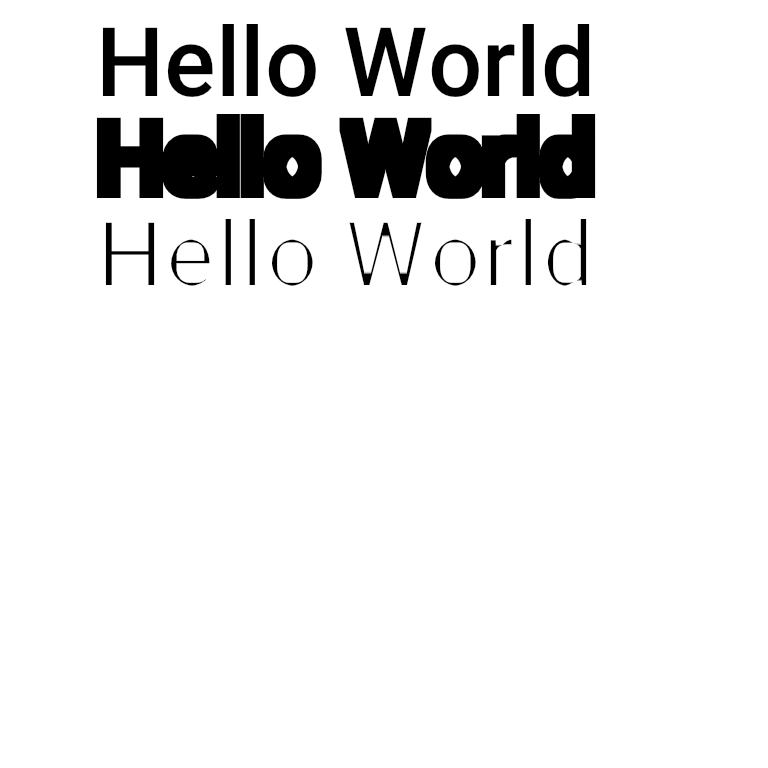
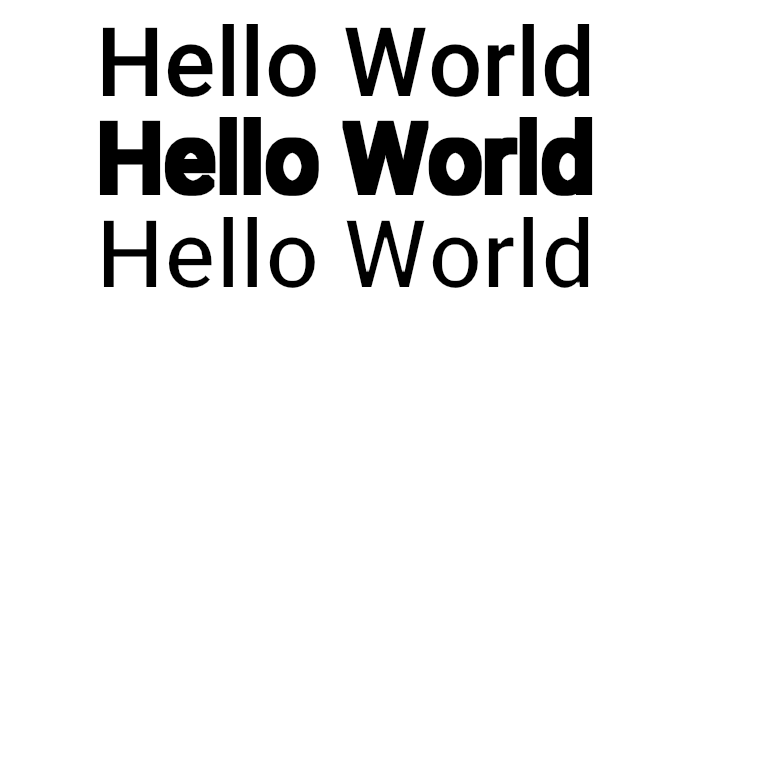
Fix reference result to match documentation example (#1141)

Changed region(s): [[0.125, 0.125, 0.7812, 0.375]]

diff --git a/package/src/renderer/__tests__/e2e/ImageFilters.spec.tsx b/package/src/renderer/__tests__/e2e/ImageFilters.spec.tsx
@@ -44,10 +44,10 @@ describe("Test Image Filters", () => {
         <Fill color="white" />
         <Text text="Hello World" x={x} y={y} font={font} />
         <Text text="Hello World" x={x} y={y1} font={font}>
-          <Morphology radius={2} />
+          <Morphology radius={1} />
         </Text>
         <Text text="Hello World" x={x} y={y2} font={font}>
-          <Morphology radius={1} operator="erode" />
+          <Morphology radius={0.3} operator="erode" />
         </Text>
       </>,
       assets

diff --git a/package/src/__tests__/setup.ts b/package/src/__tests__/setup.ts
@@ -11,6 +11,7 @@ import { JsiSkSurface } from "../skia/web/JsiSkSurface";
 export const E2E = process.env.E2E === "true";
 export const itFailsE2e = E2E ? it.failing : it;
 export const itRunsE2eOnly = E2E ? it : it.skip;
+export const itRunsNodeOnly = E2E ? it.skip : it;
 
 export const docPath = (relPath: string) =>
   path.resolve(process.cwd(), `../docs/static/img/${relPath}`);
